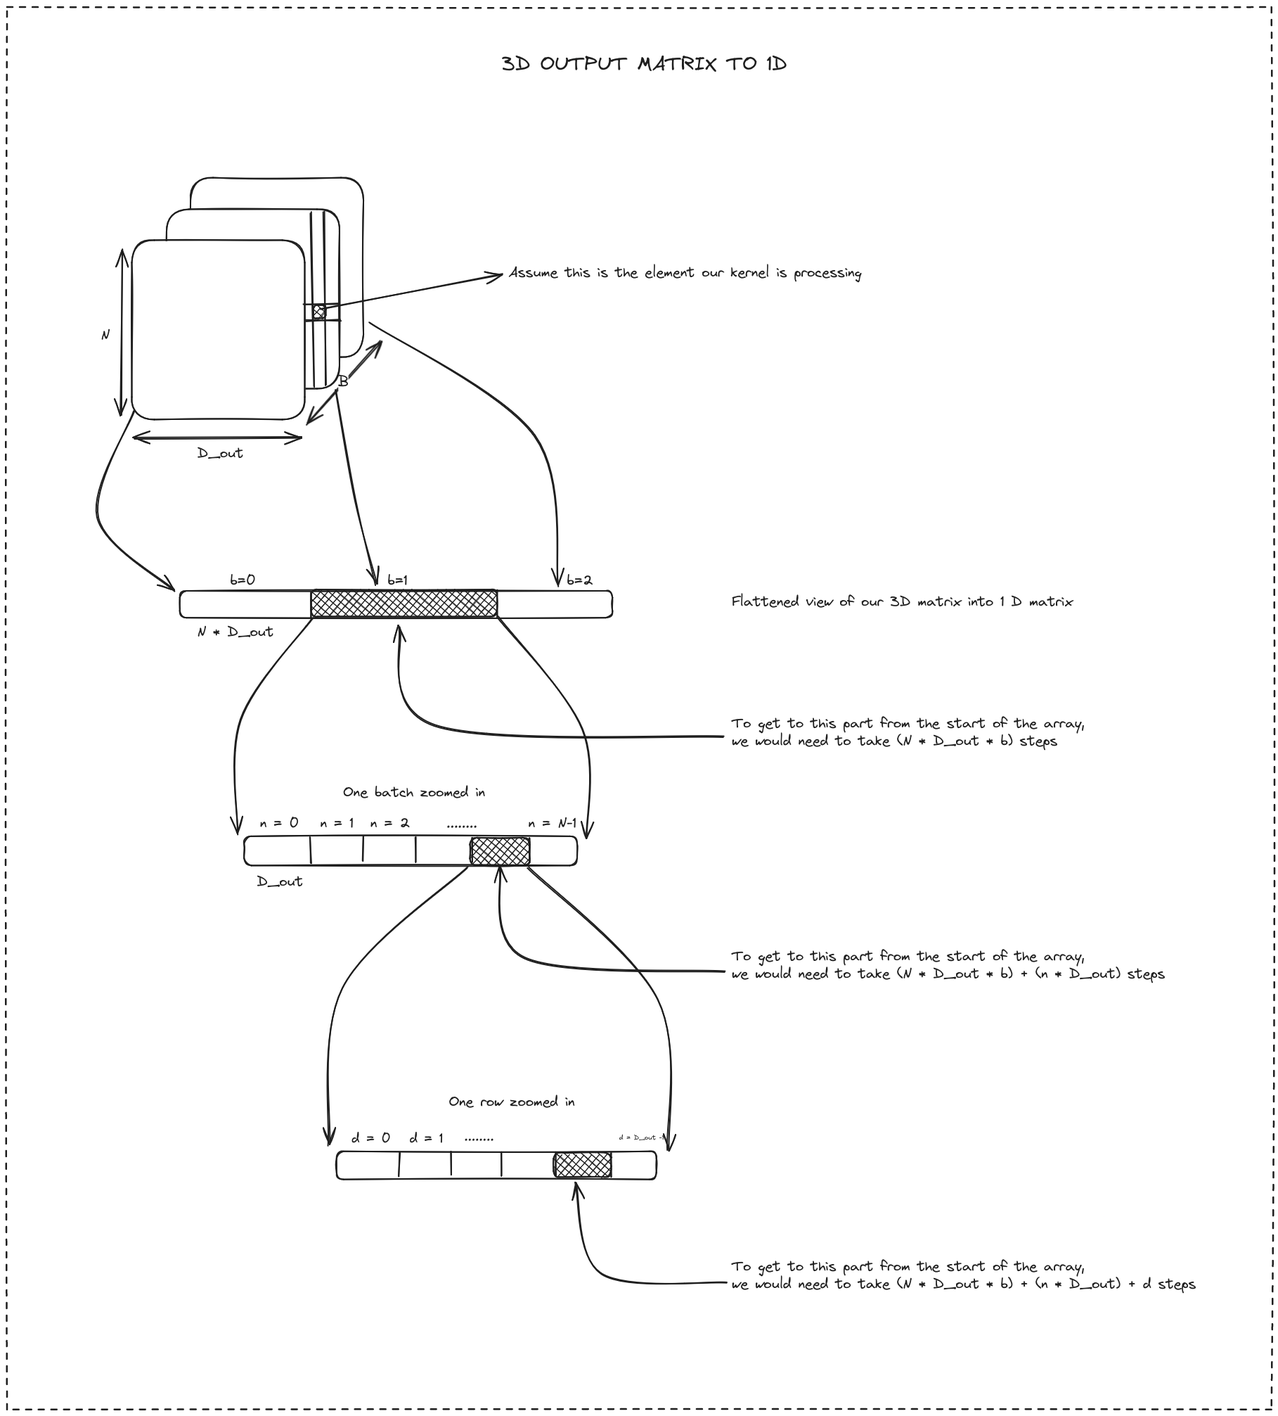
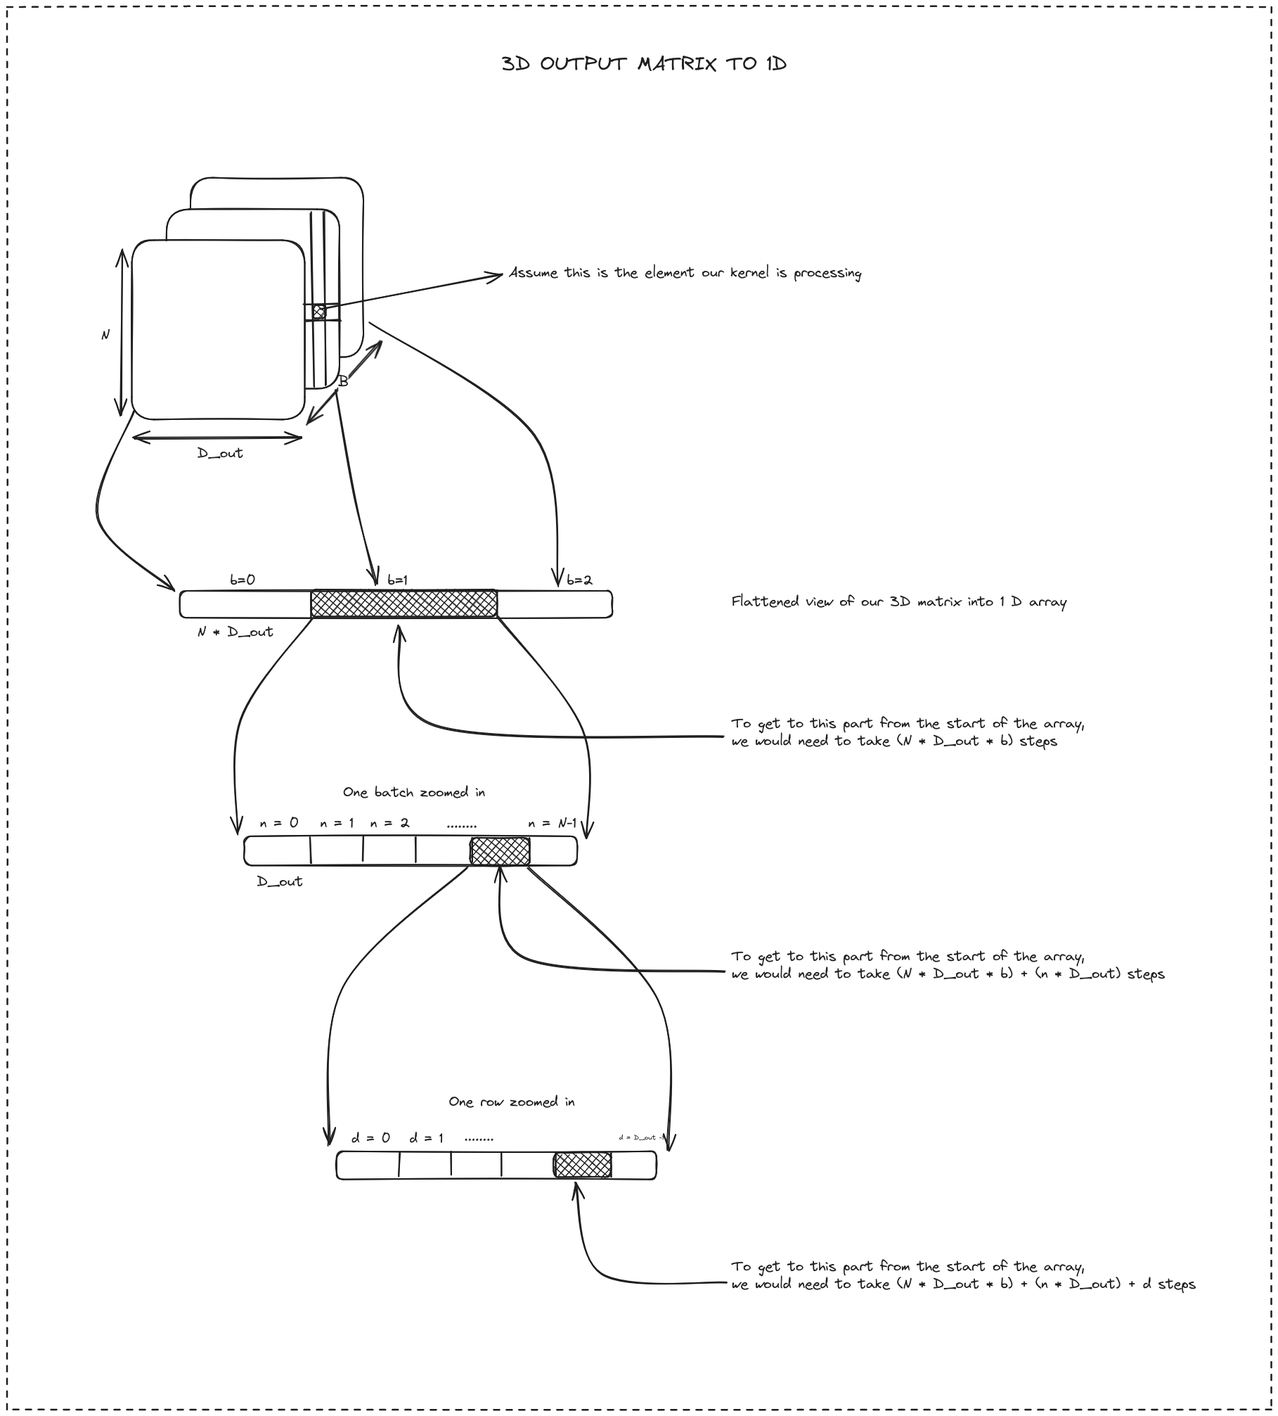
Small fixes

Changed region(s): [[0.9857, 0.0924, 1.0, 0.8932], [0.9857, 0.924, 1.0, 0.9548]]

diff --git a/posts/PART2.md b/posts/PART2.md
@@ -14,7 +14,7 @@ Okay, with that out of the way, let's understand a few important concepts of GPU
 
 ### Threads
 
-Each kernel is executed by a thread in the GPU. And every thread executes the same kernel (assuming you have a single kernel in the program). This makes it necessary for us to write our kernel such that a single function can operate on all the data points. When we launch a kernel, what we are starting are GPU threads that will execute instructions written inside the kernel. We can start a lot of threads at once and these are the true powerhouse of the GPU.
+Each kernel is executed by a thread in the GPU. And every thread executes the same kernel (assuming we have a single kernel in the program). This makes it necessary for us to write our kernel such that a single function can operate on all the data points. When we launch a kernel, what we are starting are GPU threads that will execute instructions written inside the kernel. We can start a lot of threads at once to process a huge amount of data at once.
 
 All threads have some small memory associated with it which is called local memory. Apart from that, threads can also access the shared memory, L2 cache, and global memory.
 
@@ -22,38 +22,38 @@ Physically, threads are assigned to cores. Cores execute software threads.
 
 ### Blocks
 
-Threads are logically organized into blocks. Every block has a pre-defined number of threads assigned to it. *Just for logical purposes*, we can arrange threads inside a block in either a 1D, 2D, or 3D array layout. You can think of blocks as an array of threads. It's important to understand that this 1D, 2D, or 3D arrangement is purely logical and for the developer's convenience only. This arrangement is provided so it's easier to visualize our input and output data. If we imagine that we want to operate on a 100x100 matrix, then we can just launch a kernel with a block size of 100 by 100 threads. That will start a total of $10^4$ (100x100) threads which we can use to map to the matrix. We can write our kernel such that every single thread operates on every single element of the matrix.
+Threads are logically organized into blocks. Every block has a pre-defined number of threads assigned to it. *Just for logical purposes*, we can arrange threads inside a block in either a 1D, 2D, or 3D array layout. We can think of blocks as an array of threads. It's important to understand that this 1D, 2D, or 3D arrangement is purely logical and for the developer's convenience only. This arrangement is provided so it's easier to visualize our input and output data. If we imagine that we want to operate on a 100x100 matrix, then we can just launch a kernel with a block size of 100 by 100 threads. That will start a total of $10^4$ (100x100) threads which we can use to map to the matrix. We can write our kernel such that every single thread operates on every single element of the matrix.
 
 In the physical world, every block is assigned an SM. Throughout its execution, the block will only be executed on the same SM. Since every block is assigned an SM, it also has access to the SM's shared memory (which we learned in the first part). All the threads that are part of a single block can access and share this memory.
 
 ### Grids
 
-Similar to how threads are organized in blocks, blocks are themselves organized into a grid. That helps us to launch multiple blocks at one time. As we discussed earlier, a single GPU has multiple SMs, we can launch multiple blocks at once so that all of our SMs and cores are utilized. Let's assume that our program executes 25 blocks and our GPU has 10 SMs. Then the program will execute 10 blocks in the first wave, 10 blocks in the second wave, and 5 blocks in the third wave. The first two waves will have 100% optimization but the last wave will have 50% utilization.
+Similar to how threads are organized in blocks, blocks are themselves organized into a grid. That helps us to launch multiple blocks at one time. A single GPU has multiple SMs, we can launch multiple blocks at once so that all of our SMs and cores are utilized. Let's assume that our program executes 25 blocks and our GPU has 10 SMs. Then the program will execute 10 blocks in the first wave, 10 blocks in the second wave, and 5 blocks in the third wave. The first two waves will have 100% optimization but the last wave will have 50% utilization.
 
-Blocks inside a grid can be organized in the same way that threads are organized inside a block. A grid can have a 1D, 2D, or 3D array layout of the blocks. The arrangement of blocks and threads is just logical. A single program only executes a single grid at a time.
+Blocks inside a grid can be organized in the same way that threads are organized inside a block. A grid can have a 1D, 2D, or 3D array layout of the blocks. The arrangement of blocks and threads is just logical. A single program only executes a single grid at a time. The grid has access to the global memory or HBM of the GPU.
 
 ![threads-blocks](image-2.png)
 
 Figure 1: Grids/Blocks/Threads layout
 Source: Borrowed from [this](https://siboehm.com/articles/22/CUDA-MMM) excellent blog.
 
-During execution, we start a total of `blocks per thread (b) * number of blocks (num)` physical threads. Each physical thread is numbered from `0` to `(b*num)-1`. So, how do you map your 2D or 3D structure of logical thread blocks to the physical thread? By unrolling.
+During execution, we start a total of `blocks per thread (b) * number of blocks (num)` physical threads. Each physical thread is numbered from `0` to `(b*num)-1`. So, how do we map our 2D or 3D structure of logical thread blocks to the physical thread? By unrolling.
 
-A 2D array layout can be to 1D. If it's row-major ordering, then a 2D matrix after unrolling will look like this:
+A 2D array layout can be unrolled to 1D. If it's row-major ordering, then a 2D matrix after unrolling will look like this:
 
 ![matrix unrolling](image-1.png)
 
-Figure 2: Element `A[2][3]` in the 2D matrix will be `A[5]` in the flattened 1D array. This is how you can think of mapping 2D blocks of thread to the 1D thread array.
+Figure 2: Element `A[2][3]` in the 2D matrix will be `A[5]` in the flattened 1D array. This is how we can think of mapping 2D blocks of thread to the 1D thread array.
 
 When we arrange the blocks and threads in this 1D, 2D, or 3D layout, CUDA maps them to the x-axis, y-axis, and z-axis in its programming model. This will be useful in the next section.
 
 ## A simple example in CUDA
 
-Now that you have hopefully understood what threads, blocks, and grids are, let's start with CUDA. CUDA is a programming extension of C/C++ that helps us write heterogeneous programs (that run on CPU and GPU). These programs allow us to define and launch kernels from the CPU. CUDA is very powerful and offers a lot of ways to optimize our kernels. It's just a bit ... too verbose.
+Now that we have hopefully understood what threads, blocks, and grids are, let's start with CUDA. CUDA is a programming extension of C/C++ that helps us write heterogeneous programs (that run on CPU and GPU). These programs allow us to define and launch kernels from the CPU. CUDA is very powerful and offers a lot of ways to optimize our kernels. It's just a bit ... too verbose.
 
 Let's slowly walk through an example to understand how CUDA works. Let's implement a very naive implementation of matrix multiplication. We will be using some CUDA function calls, they should be self-explanatory, but in case they are not, just google the syntax. This is a relatively simple kernel, so should be easy to follow along. Here are the general steps of writing and launching a kernel from CUDA:
 
-1. Allocate the memory for the data (both input and output) on the CPU memory (also called as host). We will allocate memory for our input (X), weight matrix (W), and output (O). Assuming B as the batch size, N as the number of rows or sequence length in transformers, D_in as the number of columns or embedding dimension, and D_out as the hidden dimension.
+1. Allocate the memory for the data (both input and output) on the CPU memory (also called as host). We will allocate memory for our input (`X`), weight matrix (`W`), and output (`O`). Assuming `B` as the batch size, `N` as the number of rows or sequence length in transformers, `D_in` as the number of columns or embedding dimension, and D_out as the hidden dimension.
 
 ```C
 float *X = (float*)malloc(B*N*D_in*sizeof(float));      // Input data
@@ -71,7 +71,7 @@ cudaMalloc((void**) &d_W, D_in*D_out*sizeof(float));
 cudaMalloc((void**) &d_O, B*N*D_out*sizeof(float));
 ```
 
-3. Copy the relevant data from the CPU memory to the GPU memory. Let's assume that we have loaded `X` and `W` with relevant data. Now we transfer the data to the GPU. Just for convenience, I have prefixed the variable that will reside on GPU memory with `d_`. These variables are a copy of `X` and `W` but allocated in the GPU memory.
+3. Copy the relevant data from the CPU memory to the GPU memory. Let's assume that we have loaded `X` and `W` with relevant data. Now we transfer that data to the GPU. Just for convenience, I have prefixed the variable that will reside on GPU memory with `d_`. These variables are a copy of `X` and `W` but allocated in the GPU memory.
 
 ```C
 cudaMemcpy(d_X, X, B*N*D_in*sizeof(float), cudaMemcpyHostToDevice);     // cudaMemcpy is again a CUDA function
@@ -79,7 +79,7 @@ cudaMemcpy(d_W, W, D_in*D_out*sizeof(float), cudaMemcpyHostToDevice);
 
 ```
 
-4. Launch the kernel. Assuming that our kernel is called `matMul`, `grid` defines how the blocks are arranged and `blocks` define how threads are arranged in each block. For this example, the `grids` will be a 1D array equal to the batch size. `blocks` will have the same layout as the output dimension of our output matrix (`N*D_out`). This means that every block will process a single output matrix from the batch and every thread will process a single cell of our output matrix.
+4. Launch the kernel. Assuming that our kernel is called `matMul`, `grid` defines how the blocks are arranged and `blocks` define how threads are arranged in each block. For this example, the `grid` will be a 1D array equal to the batch size. `blocks` will have the same layout as the output dimension of our output matrix (`N*D_out`). This means that every block will process a single output matrix from the batch and every thread will process a single cell of our output matrix.
 
 ```C
 // We would launch B blocks, each block processing a single batch
@@ -149,9 +149,9 @@ Remember that physically there is no 2D or 3D arrangement of threads. That const
 To figure out which data a particular thread should process, the kernel just needs to figure out which thread is it executing. Depending on the batch, row, and column, each thread will load different parts of the input and weight matrix. These are called offsets and we have calculated three offsets in our code:
 
 1. `batch`: Figure out which matrix in the batch this kernel is processing.`blockIdx.x` gives the block ID in the x-axis of our grid layout. Since we have a 1D grid, this is the only direction available to us.
-2. `row`: Figure out within a matrix, which row is the kernel processing. Rows are mapped to the y-axis.
-3. `col`: Figure out within a matrix, which column is the kernel processing. Columns are mapped to the x-axis.
-4. `out_offset`: Finally, we map the thread ID to the exact cell in the output matrix. You can think of this as:
+2. `row`: Figure out within a matrix, which row is the kernel processing. Rows are mapped to the y-axis of the block layout.
+3. `col`: Figure out within a matrix, which column is the kernel processing. Columns are mapped to the x-axis of the block layout.
+4. `out_offset`: Finally, we map the thread ID to the exact cell in the output matrix. We can think of this as:
    1. Skipping `batch` matrices to arrive at our current matrix. To skip one single matrix, we would have to go ahead `N*D_out` number of elements in the flattened 1D array
    2. Skipping `row` number of rows. In a 1D flattened layout, we would skip a row by moving ahead `D_out` elements.
    3. Finally, adding `col` to the summation of the above two to arrive at our element.
@@ -168,9 +168,9 @@ The complete code is present [here](https://github.com/cmeraki/vit.triton/blob/m
 
 ## A simple example in Triton
 
-CUDA is amazing and lets us do a lot of optimizations. But it is quite verbose. Plus, if you are coming from the machine learning/data science domain, you are probably more familiar with Python. Open AI released a package called [Triton](https://triton-lang.org/) that provides a Python environment to write kernels and compile them for any GPU. By using Triton, you can write very performant kernels in Python directly.
+CUDA is amazing and lets us do a lot of optimizations. But it is quite verbose. Plus, if you are coming from the machine learning/data science domain, you are probably more familiar with Python. Open AI released a package called [Triton](https://triton-lang.org/) that provides a Python environment to write kernels and compile them for any GPU. By using Triton, we can write very performant kernels in Python directly.
 
-But instead of working with individual threads, Triton works with blocks. Instead of each kernel being assigned a thread, in Triton each kernel is assigned a block. Triton abstracts out the thread computation completely so that you can focus on slightly higher-order computation.
+But instead of working with individual threads, Triton works with blocks. Instead of each kernel being assigned a thread, in Triton each kernel is assigned a block. Triton abstracts out the thread computation completely so that we can focus on slightly higher-order computation.
 
 In our example of matrix multiplication, instead of computing a single element of the output in our kernel, Triton can help us compute values for small "blocks" of the output matrix.
 
@@ -181,9 +181,9 @@ Source: [Triton documentation](https://triton-lang.org/main/programming-guide/ch
 
 Let's reimplement the matrix multiplication example using Triton. The steps for Triton are very simple.
 
-1. Implement a "wrapper" function to call the kernel. Below, we are calling the Triton kernel with `matmul_kernel`. We define the grid and the block sizes similar to how we do with CUDA. There are some assert statements to make sure that we don't run into any errors. When we pass the torch tensors to the kernel, triton implicitly converts it into a pointer. We just need to make sure that whatever tensors we are passing to the kernel are already on the GPU (by `x.to('cuda:0')`).
+1. Implement a "wrapper" function to call the kernel. Below, we are calling the Triton kernel with `matmul_kernel`. We define the grid and the block sizes similar to how we do with CUDA. There are some assert statements to make sure that we don't run into any errors. When we pass the torch tensors to the kernel, Triton implicitly converts it into a pointer. We just need to make sure that whatever tensors we are passing to the kernel are already on the GPU (by `x.to('cuda:0')`).
    1. Unlike CUDA however, we start a grid layout where we have 3 axes. In the first axis, we have batch size, and in the other two axes, we have the number of times it will take `BLOCK_SIZE_ROW` to cover all the rows (similarly for `BLOCK_SIZE_COL`).
-   2. During execution, this means, that for kernel will process - `BLOCK_SIZE_ROW x BLOCK_SIZE_COL` sub-matrix in the input for every, one input in the batch.
+   2. During execution, this means, that for kernel will process - `BLOCK_SIZE_ROW x BLOCK_SIZE_COL` sub-matrix in the input for every input in the batch.
 
 ```python
 def matmul(input: torch.Tensor, weight: torch.Tensor) -> torch.Tensor:
@@ -329,11 +329,11 @@ tl.program_id(axis=1) == 2
 tl.program_id(axis=2) == 1
 ```
 
-In this `(1, 2, 1)`th block, how should we prepare our offsets? In the 1D representation of the matrix, we want to load the elements highlighted in green.
-
 ![tritonblocks](tritonblocks.png)
 
 Figure 5: `(1 x 16 x 12)` matrix is divided into blocks of size `(4 x 4)`. `1, 2, 1`th block is highlighted. The value at every place is the index of that position in the 1D flattened array.
+
+In this `(1, 2, 1)`th block, how should we prepare our offsets? In the 1D representation of the matrix, we want to load the elements highlighted in green.
 
 ```python
 # Offsets for output data
@@ -356,13 +356,15 @@ output_row_offset = row_idx*BLOCK_SIZE_ROW + tl.arange(0, BLOCK_SIZE_ROW)
 # output_row_offset = 2*4 + (0, 1, 2, 3) = (8, 9, 10, 11)
 ```
 
-If we add it directly to our `output_ptr` we will get the 8th, 9th, 10th, and 11th element from the 1D flattened matrix. We don't want that. We want the highlighted elements. So we do a transformation:
+If we add it directly to our `output_ptr` we will get the 8th, 9th, 10th, and 11th element from the 1D flattened array. We don't want that. We want the highlighted elements. So we do a transformation:
 
 ```python
 output_row_offset = output_row_offset[:, None] * output_row_stride
 # This multiplies each element by the output_row_stride which is equal to 12 (number of columns), the number of elements we would skip in 1D array to reach the start of next row
-# ouput_row_offset becomes (96, 108, 120, 132). But it also gets transformed into a row vector
+# ouput_row_offset becomes (96, 108, 120, 132). It also gets transformed into a row vector
 ```
+
+We do a similar transformation for the columns:
 
 ```python
 output_col_offset = col_idx*BLOCK_SIZE_COL + tl.arange(0, BLOCK_SIZE_COL)
@@ -370,13 +372,11 @@ output_col_offset = col_idx*BLOCK_SIZE_COL + tl.arange(0, BLOCK_SIZE_COL)
 # output_col_offset = 1*4 + (0, 1, 2, 3) = (4, 5, 6, 7)
 ```
 
-We do a similar transformation here:
-
 ```python
 output_col_offset = output_col_offset[None, :] * output_col_stride
 # This multiplies each element by the output_col_stride which is equal to 1, the number of elements we would skip in 1D array to advance by one column.
 # Since this is a row major ordering, columns are adjacent to each other.
-# ouput_col_offset becomes (4, 5, 6, 7). But it also gets transformed into a column vector
+# ouput_col_offset becomes (4, 5, 6, 7). It also gets transformed into a column vector
 ```
 
 Finally,
@@ -391,7 +391,7 @@ Here, we first add `output_row_offset` and `output_col_offset`. Since one of the
 
 Figure 6: How 2D blocks are created from 2 1D offsets
 
-This gives us the appropriate data. You can similarly load the relevant data for other tensors. The rest of the code is more about syntax rather than any core logic. So I'll leave that for you to explore. But if you understand the offset calculation properly, you should be able to write your kernels independently.
+This gives us the appropriate data. We can similarly load the relevant data for other tensors. The rest of the code is more about syntax rather than any core logic. So I'll leave that for you to explore. But if you understand the offset calculation properly, you should be able to write your kernels independently.
 
 The complete code is present [here](https://github.com/cmeraki/vit.triton/blob/main/examples/matmul_batch.py). You just need Triton and Torch for this example.
 
@@ -399,7 +399,7 @@ The complete code is present [here](https://github.com/cmeraki/vit.triton/blob/m
 
 Congrats on making this far away. Now that you understand the basics of GPU hardware and its programming model, you can go ahead and implement any network from scratch, this time not relying on PyTroch for operations but writing your kernels in CUDA or Triton.
 
-What would you require for that? If you want to implement a transformer encoder network, you would need to implement all the basic layers and operations in Triton or Kernel.
+In case, you want to implement a transformer encoder network, you would need to implement all the basic layers and operations in Triton or CUDA.
 
 1. Matrix multiplication
 2. Layernorm
@@ -407,4 +407,4 @@ What would you require for that? If you want to implement a transformer encoder 
 4. Addition
 5. Concatenation
 
-You can then wrap these kernels in the PyTorch module and load weights from HF to compare your implementation with other PyTorch/TF native implementations. If this sounds interesting, this is exactly what we did too. We implemented most of the operations used in Vision Transformer (including patching and addition operations) in Triton and used HF weights to run a forward pass. You can look at the code [here](https://github.com/cmeraki/vit.triton) and maybe implement your favorite model too using custom kernels!
+You can then wrap these kernels in the PyTorch module and load weights from HF to compare your implementation with other PyTorch/TF native implementations. If this sounds interesting, this is exactly what we did too. We implemented most of the operations used in Vision Transformer (ViT) including patching and addition operations in Triton and loaded weights from a checkpoint to run a forward pass. You can look at the code [here](https://github.com/cmeraki/vit.triton) and maybe implement your favorite model too using custom kernels!

diff --git a/posts/PART1.md b/posts/PART1.md
@@ -68,6 +68,8 @@ There are three kinds of memory on the GPU
    1. For reference, H100 SXM has 50 MB (lol, in comparison to HBM) of L2 cache with 12 TB/s of bandwidth.
 3. Shared memory - Fastest and smallest memory available on the GPU. Every SM has its shared memory and all the cores executing instructions in an SM have access to it.
 
+> Apart from the above, we also have warps in GPUs. Warps are a collection of 32 threads that are executed at once by the GPU. It's slightly more complex to understand how warps work, so I will leave it out of the scope of this blog.
+
 By now, you should be able to understand how GPU hardware is organized. There are a few other hardware concepts that I did not go through like warp scheduler, register files, etc. here, but that are not crucial to get started.
 
 ## Back to LLMs
@@ -79,7 +81,7 @@ Take an example of the H100 SXM GPU that can do 67 teraFlops (FP32) of computati
 1. Need to transfer ~90x the data (67 trillion/750 billion) from the memory to the computer layer per second
 2. Or perform, ~90 operations on every data point each second
 
-So, it's tough to keep up with the computing power of the GPU. The bottleneck comes in transferring the data. There are three good resources on this topic that you should definitely read:
+So, it's tough to keep up with the computing power of the GPU. The bottleneck comes in transferring the data. There are three good resources on this topic that you should read to understand this better:
 
 1. [NVIDIA docs](https://docs.nvidia.com/deeplearning/performance/dl-performance-gpu-background/index.html#understand-perf)
 2. An article by Horace He [here](https://horace.io/brrr_intro.html).
